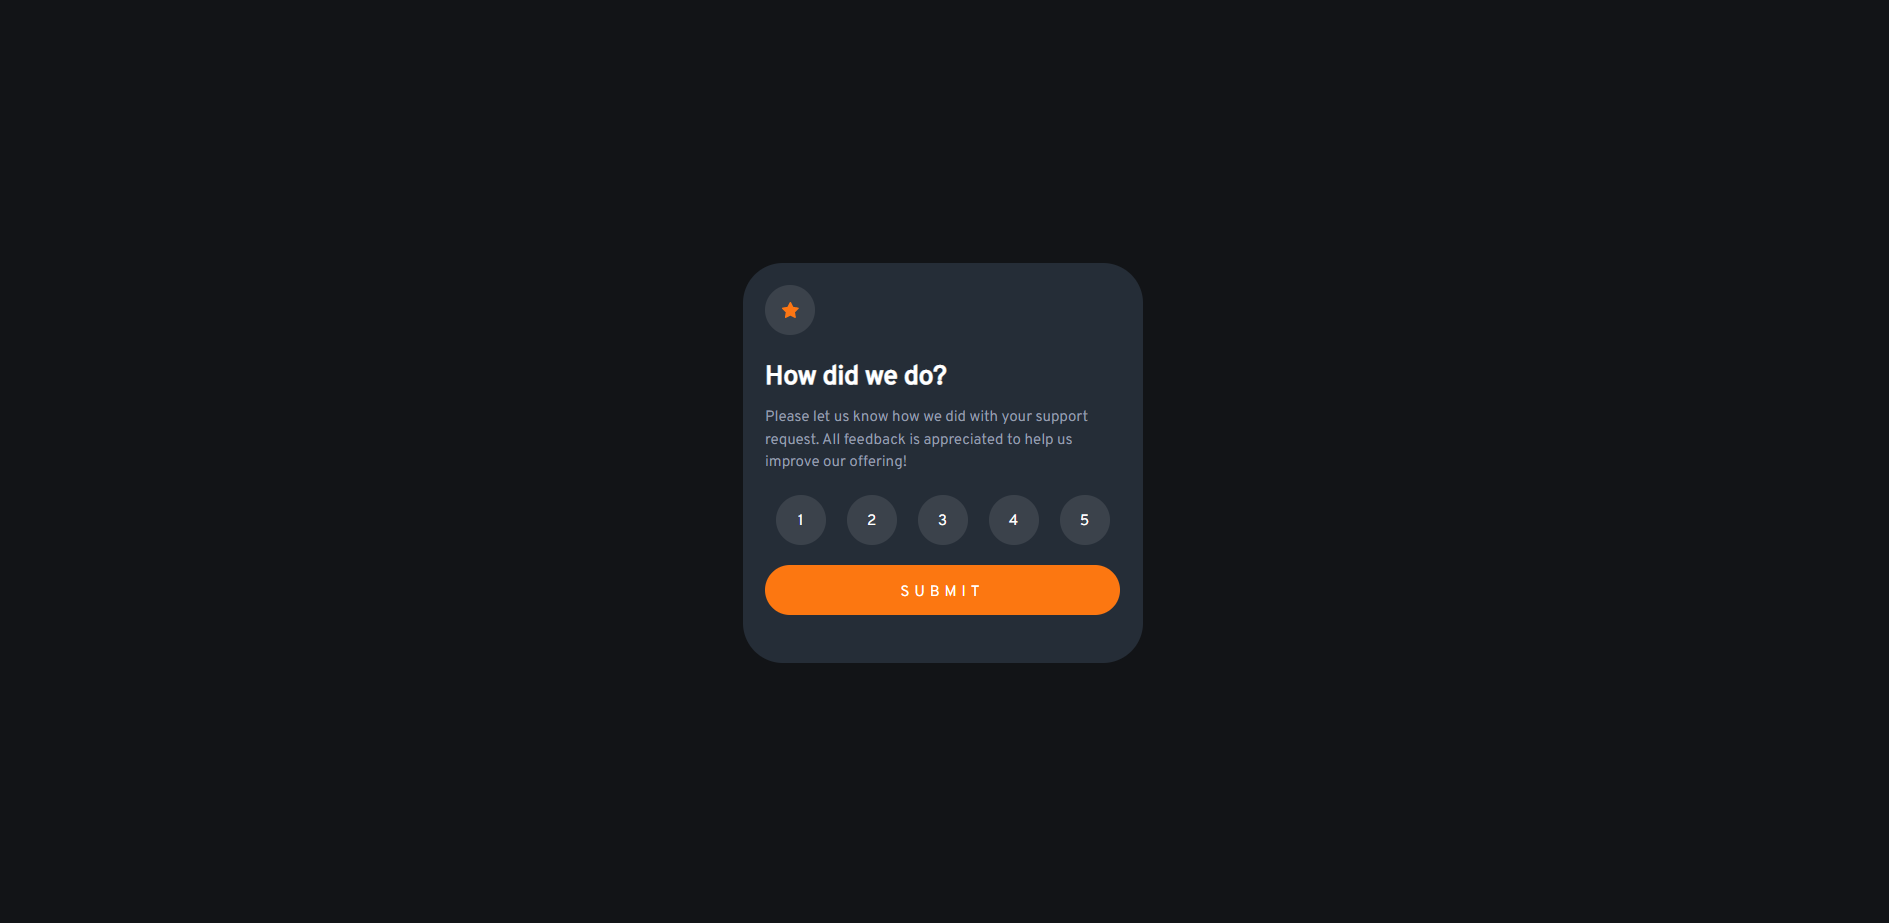
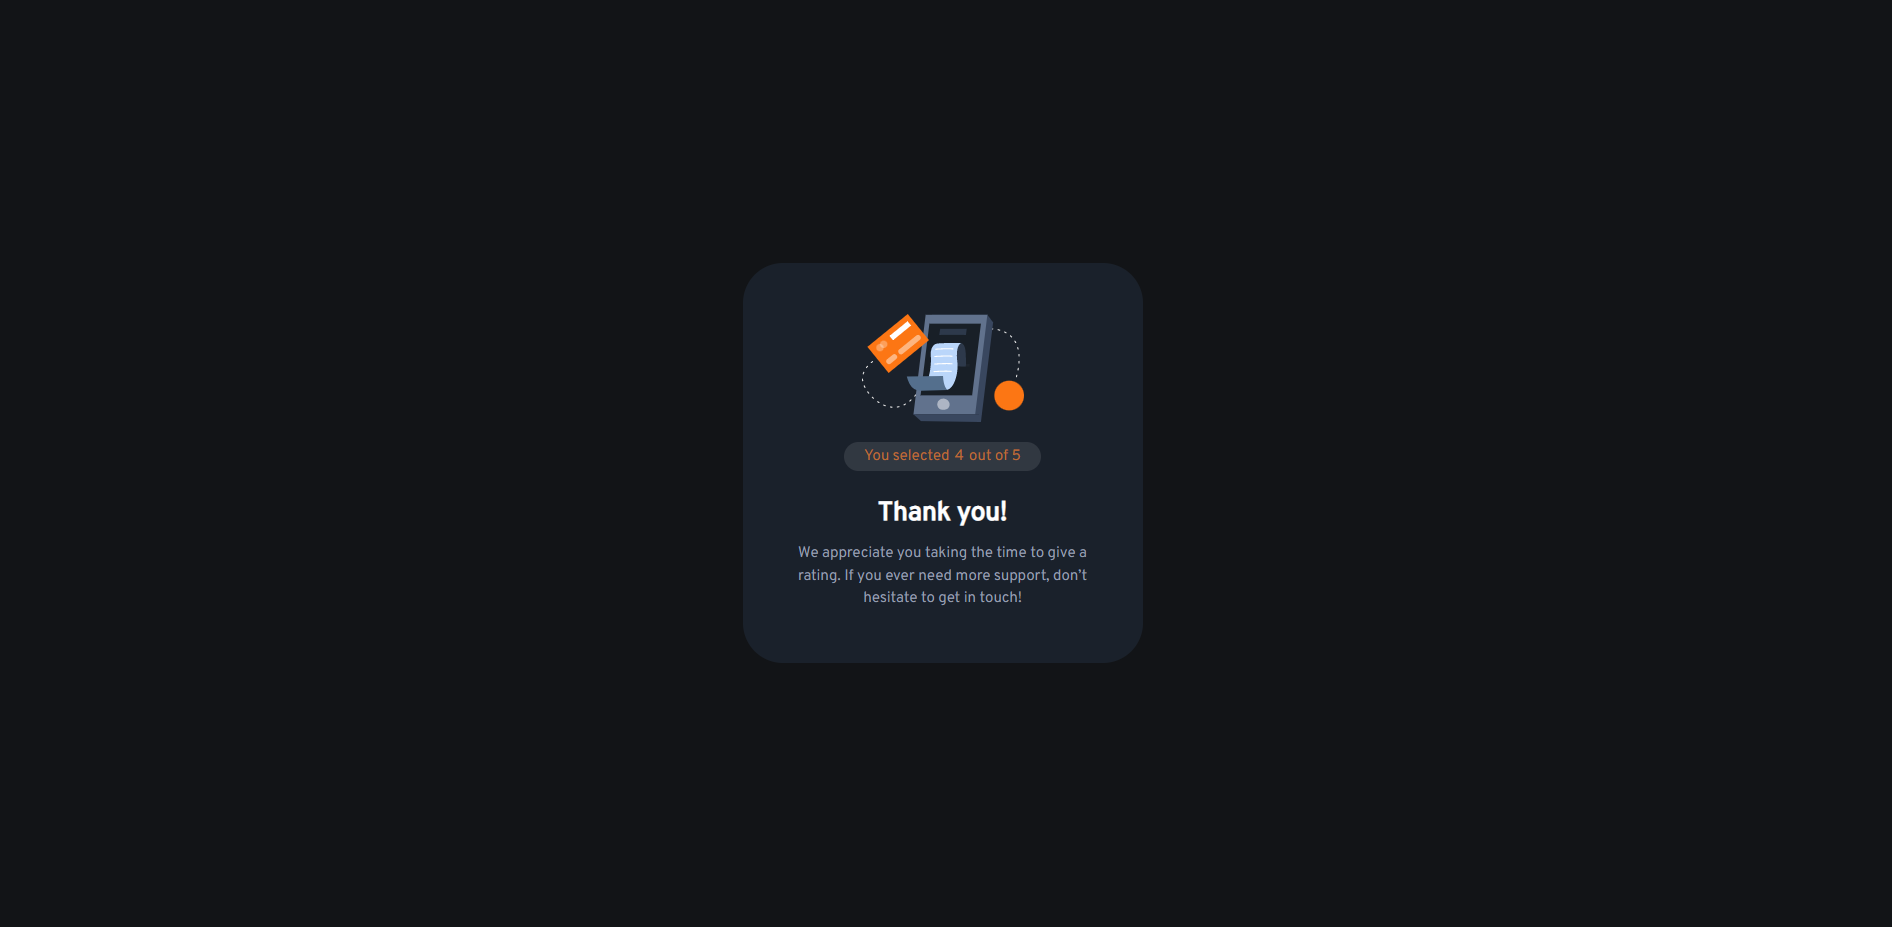
correction color

Changed region(s): [[0.406, 0.3337, 0.5934, 0.6674], [0.406, 0.6977, 0.5934, 0.7281], [0.406, 0.3034, 0.4373, 0.364]]

diff --git a/style.scss b/style.scss
@@ -1,7 +1,7 @@
 $white: hsl(0, 0%, 100%);
 $light-grey: hsl(217, 12%, 63%);
 $medium-grey: hsl(216, 12%, 54%);
-$dark-blue: hsl(213, 19%, 18%);
+$dark-blue: #1a212b;
 $very-dark-blue: hsl(216, 12%, 8%);
 $orange: #bc6d34;
 $light-orange: #fc7711;

diff --git a/style.css b/style.css
@@ -29,7 +29,7 @@ p {
 
 .rating-state,
 .thank-you {
-  background-color: hsl(213deg, 19%, 18%);
+  background-color: #1a212b;
   width: 400px;
   height: 400px;
   border-radius: 40px;
